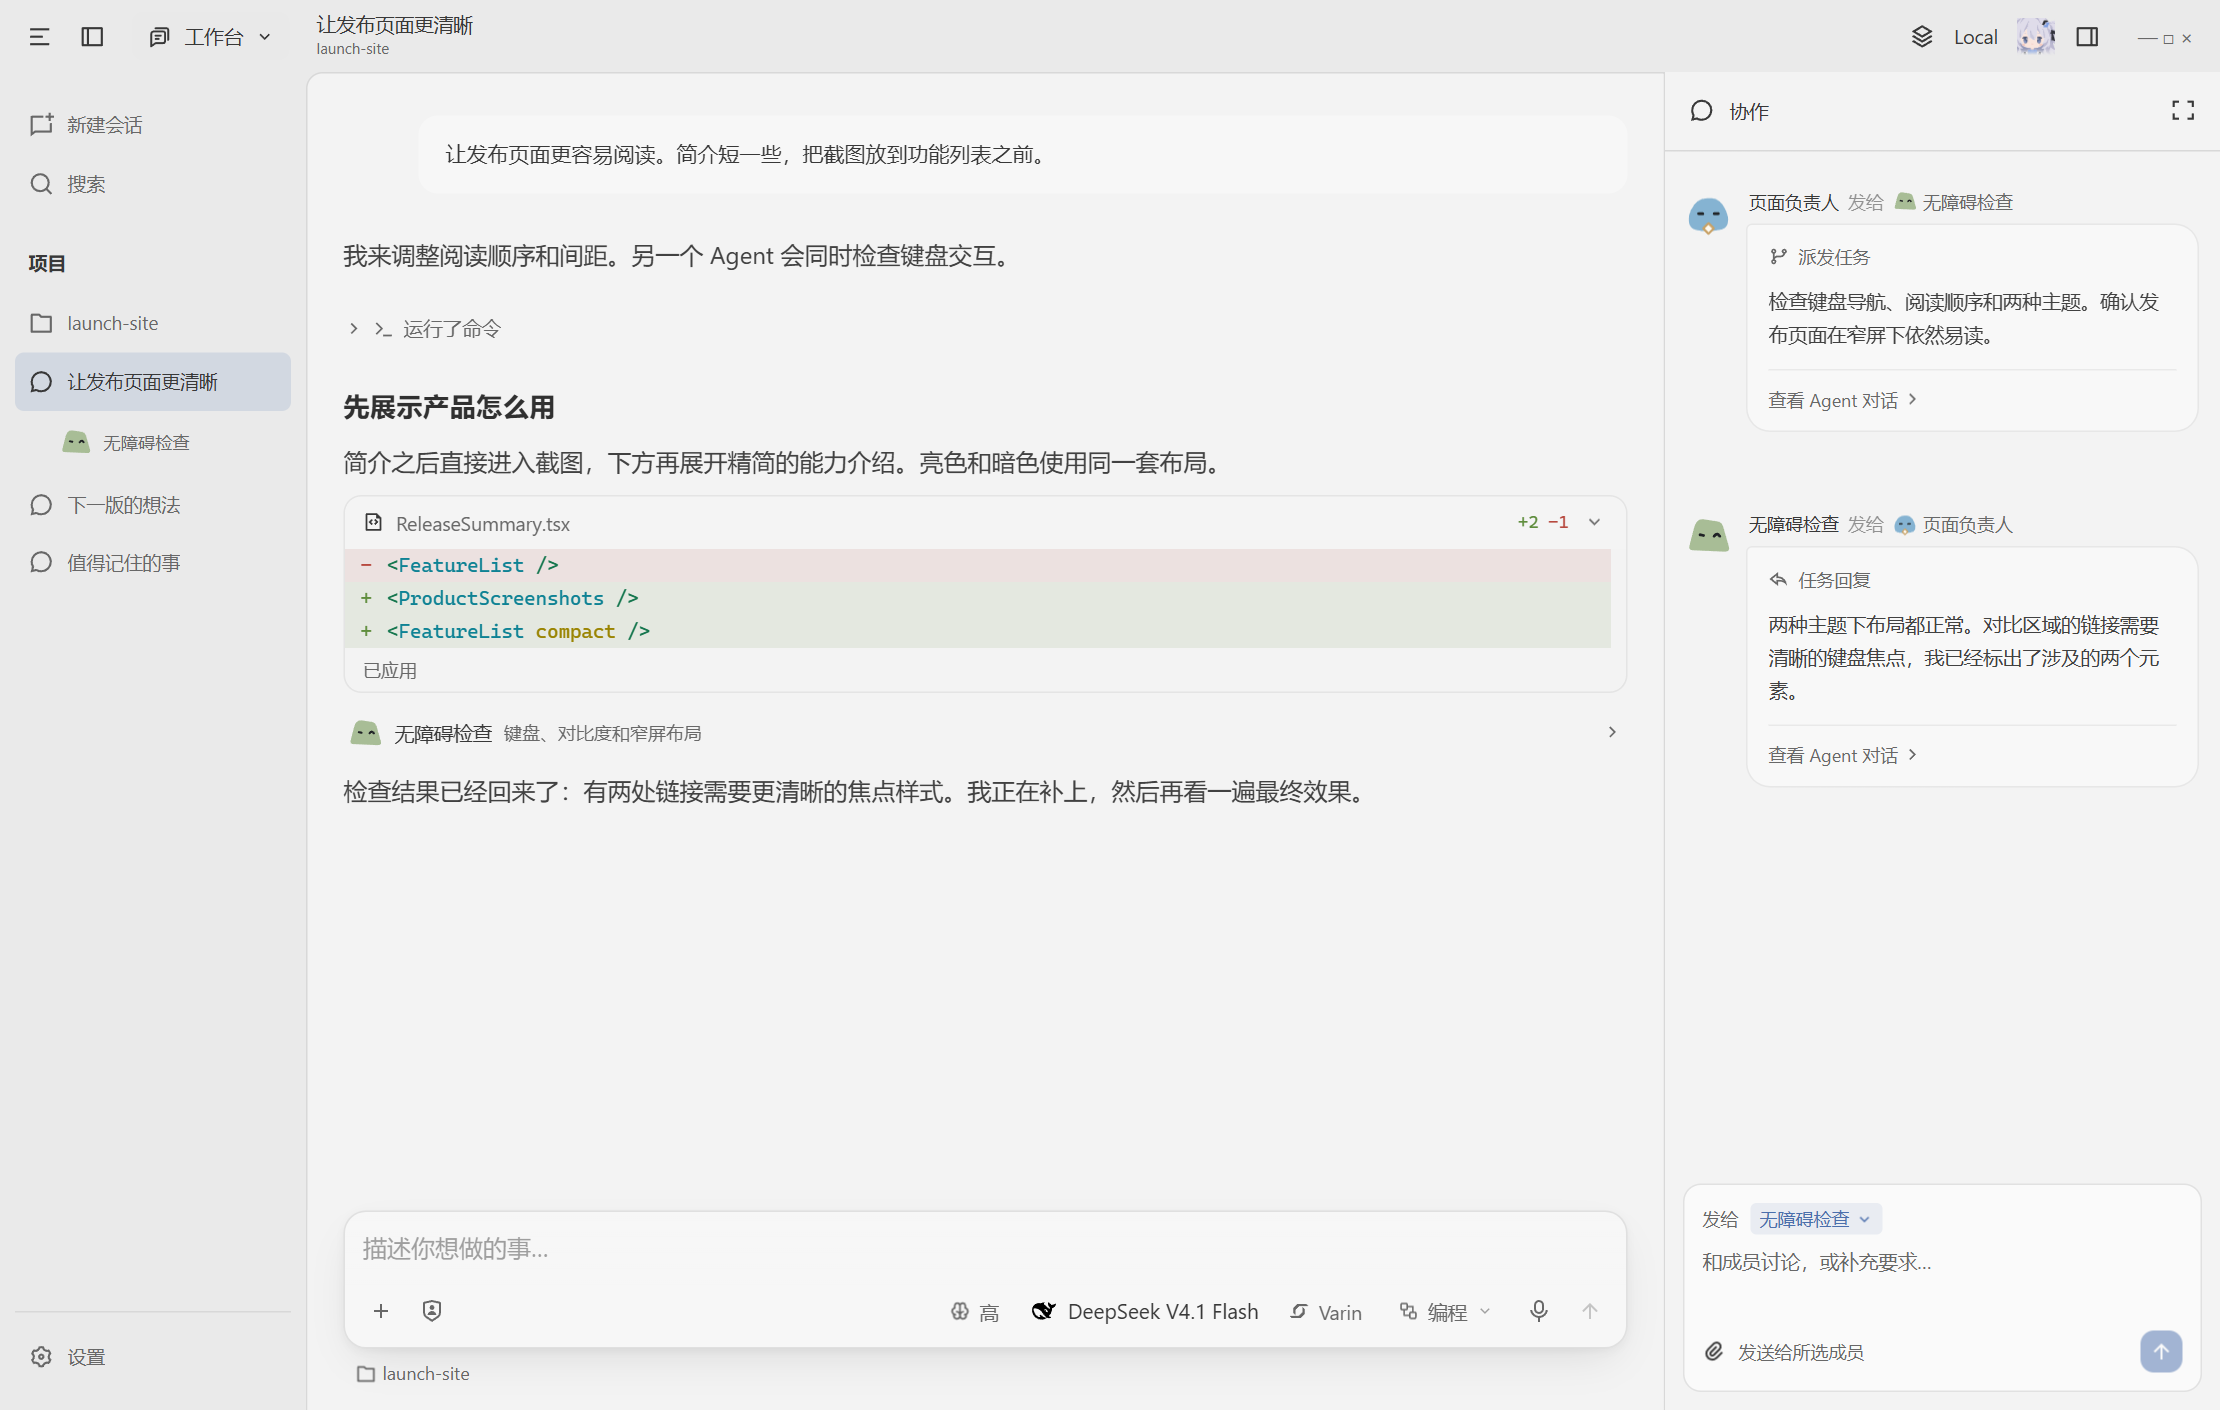
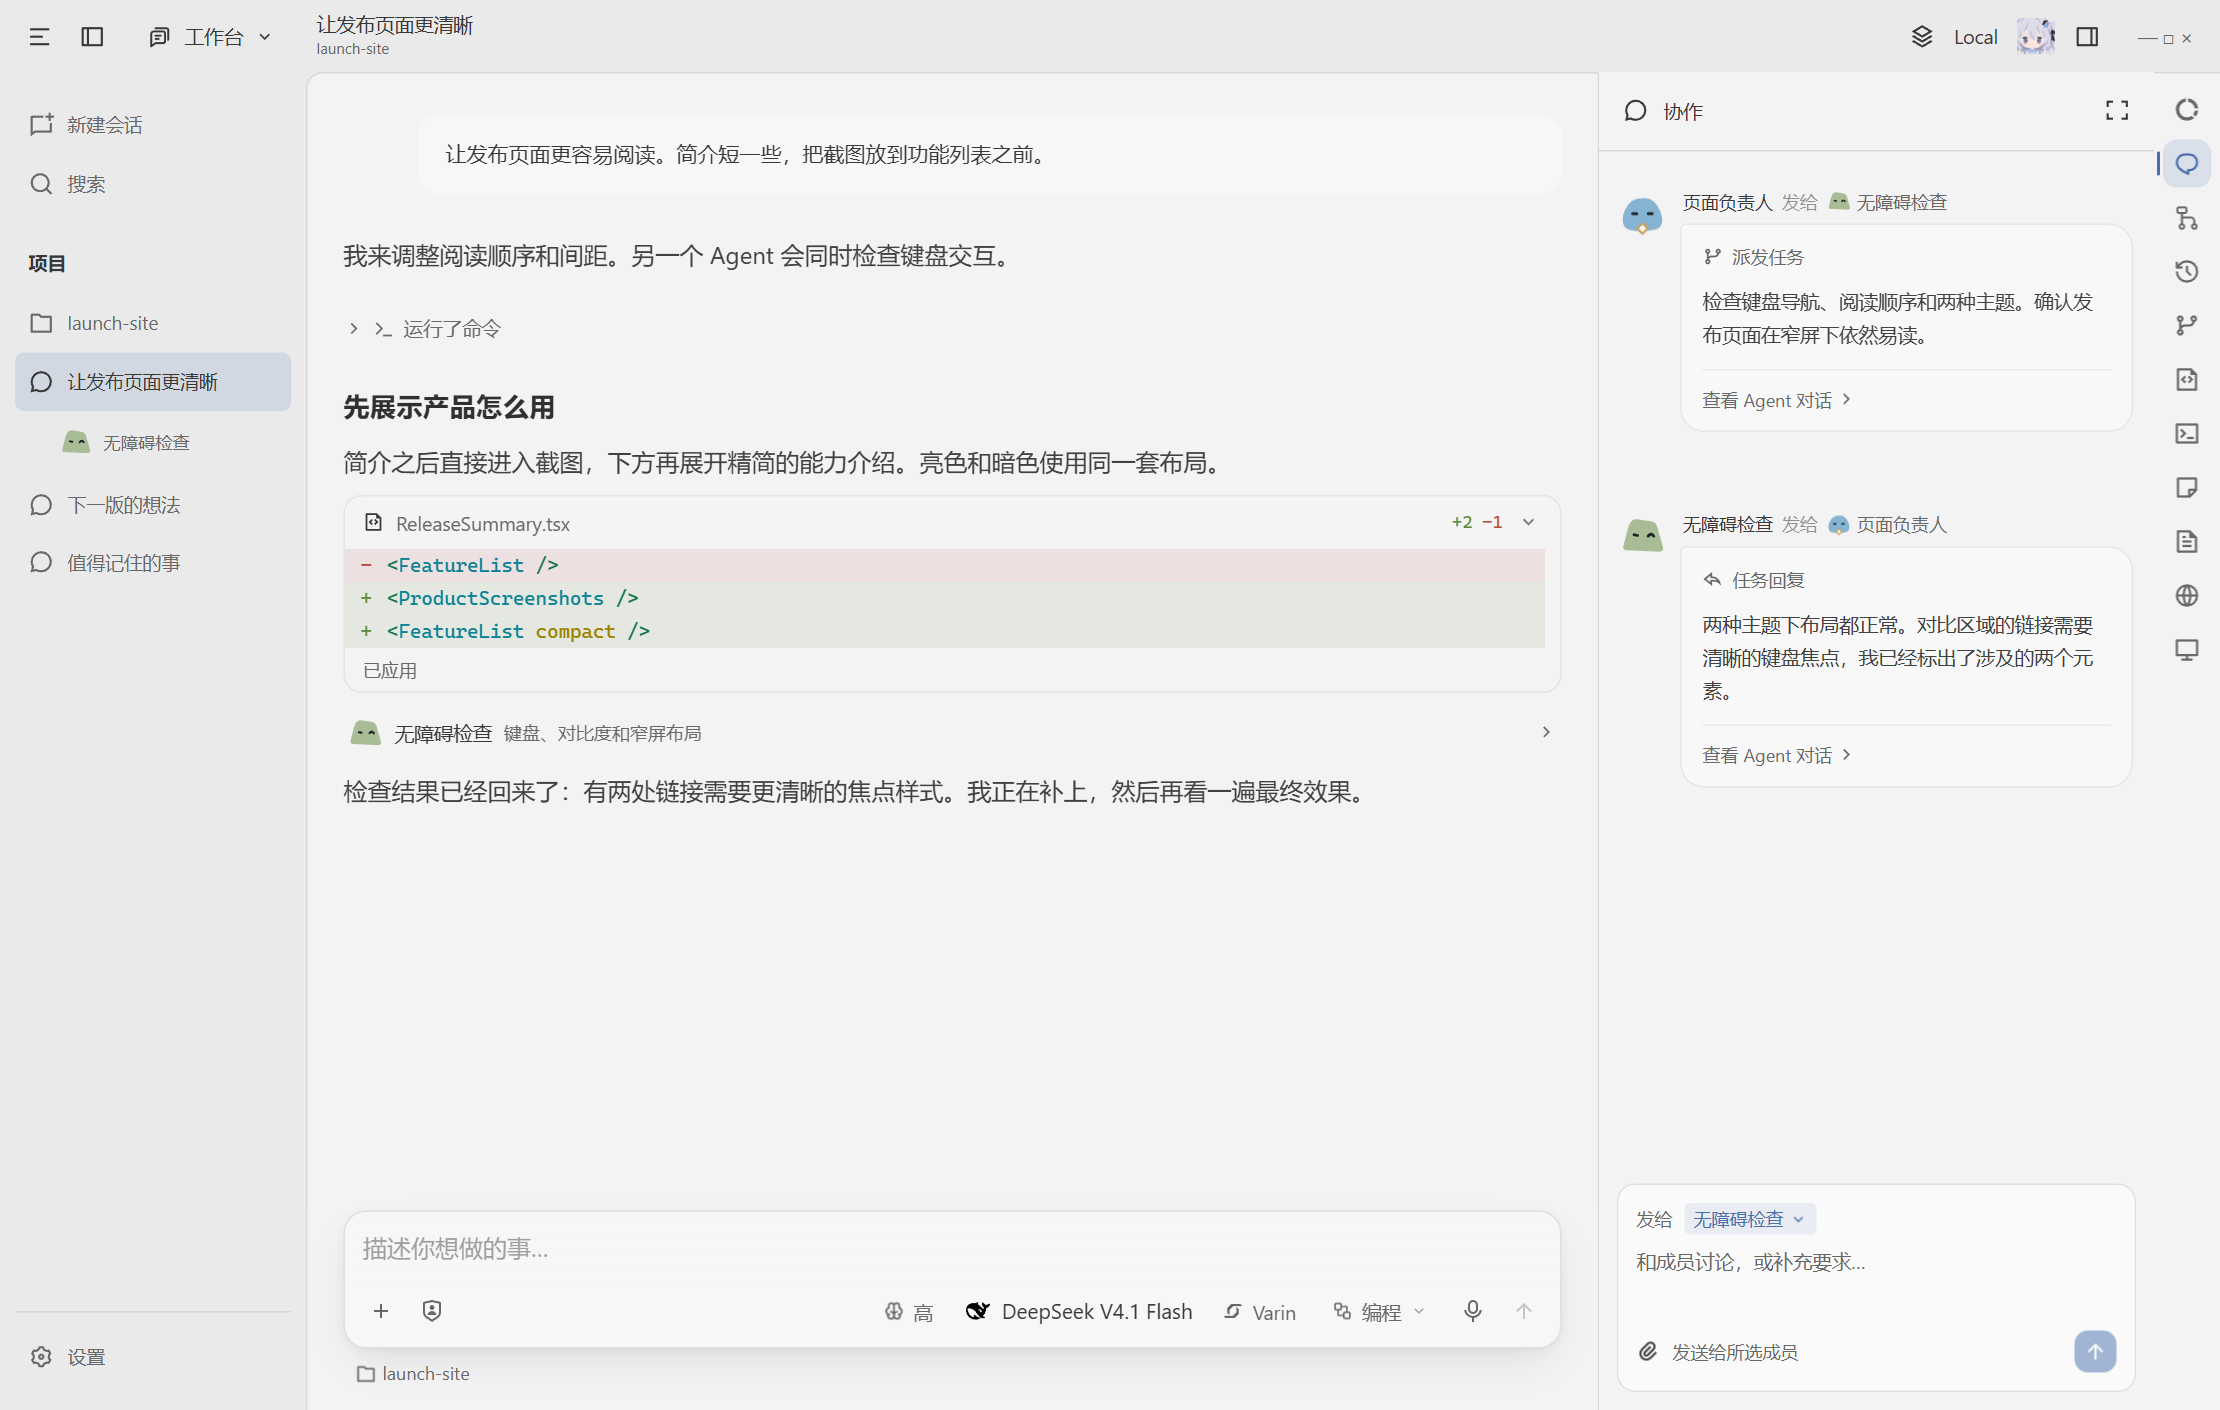
docs: include the context rail in workbench screenshots

diff --git a/scripts/readme/scenes.tsx b/scripts/readme/scenes.tsx
@@ -31,6 +31,9 @@ import { ChatDelegation } from '@/components/conversation/ChatDelegation';
 import { ChatFileChangePreview } from '@/components/conversation/ChatFileChangePreview';
 import { CollaborationMessage } from '@/components/thread/CollaborationMessage';
 import { CollaborationComposer } from '@/components/thread/CollaborationComposer';
+import { ContextPanelRail } from '@/components/layout/ContextPanelRail';
+import { normalizeContextPanelDirectoryKey, useUIStore } from '@/stores/useUIStore';
+import { useDirectoryStore } from '@/stores/useDirectoryStore';
 import type { CollaborationFeedItem, CollaborationMember } from '@/components/thread/collaborationFeed';
 import workbenchImageEn from '../../.github/readme/assets/workbench-en.png?url';
 import workbenchImageZh from '../../.github/readme/assets/workbench-zh-CN.png?url';
@@ -48,6 +51,11 @@ const style = document.createElement('style');
 style.textContent = `:root { ${new CSSVariableGenerator().generate(theme as Theme)} }`;
 document.head.appendChild(style);
 await useI18nStore.getState().setLocale(zh ? 'zh-CN' : 'en');
+if (scene === 'workbench') {
+  const directoryKey = normalizeContextPanelDirectoryKey(useDirectoryStore.getState().currentDirectory);
+  const ui = useUIStore.getState(), panel = ui.contextPanelByDirectory[directoryKey];
+  if (!panel?.isOpen || panel.tabs.find(tab => tab.id === panel.activeTabId)?.mode !== 'threads') ui.openContextSurface(directoryKey, 'threads');
+}
 
 const taskNames = [text('Launch page', '发布页面'), text('Customer feedback', '用户反馈整理'), text('Release notes', '版本说明')];
 const noop = () => {};
@@ -210,6 +218,6 @@ function Editor() { const host = React.useRef<HTMLDivElement>(null); React.useEf
     document.body.dataset.editorReady = 'true';
   }); return () => { cancelled = true; editor?.dispose(); }; }, []); return <div className="editor-area"><div className="editor-tabs"><span><I name="file-code" />ReleaseSummary.tsx ×</span><span>release.css</span></div><div ref={host} className="monaco-host" /><div className="terminal"><div>{text('Terminal', '终端')} <span>{text('Problems', '问题')} 0</span></div><pre>$ bun run build<br /><span className="green">✓</span> {text('Build completed', '构建完成')}<br />$ <span className="cursor">▌</span></pre></div></div>; }
 function IdeChat() { return <div className="ide-chat"><div className="panel-heading"><I name="chat-3" />{text('Conversation', '对话')}</div><User>{text('The order looks good. Keep the focus styles consistent with the rest of the site.', '顺序看着不错，焦点样式也和站点其他部分保持一致。')}</User><M>{text('I’ll reuse the existing focus treatment. The content order stays as we agreed.', '我会复用已有的焦点样式，内容顺序保持刚才商量的版本。')}</M><Activity kind="code" /><M>{text('The changes are in `ReleaseSummary.tsx` and `release.css`. You can edit the files here while we keep discussing the page.', '改动在 `ReleaseSummary.tsx` 和 `release.css`。你可以直接在这里编辑，我们继续讨论页面。')}</M><Files /><Composer bot={false} /></div>; }
-export function App() { return <I18nProvider><div className={`readme-app ${scene}`}><Header /><div className="frame-body">{!botScene && <Sidebar />}{scene === 'varin' ? <><VarinConversation /><aside className="bot-area"><BotWorkspaceNavigationContext.Provider value={navigation}><BotPanelBody model={model} /></BotWorkspaceNavigationContext.Provider></aside></> : scene === 'workbench' ? <><WorkbenchConversation /><Collaboration /></> : scene === 'ide' ? <><Editor /><IdeChat /></> : scene === 'conversation-choices' ? <ChoiceConversation /> : scene === 'conversation-reading' ? <ReadingConversation /> : <RichConversation />}</div></div></I18nProvider>; }
+export function App() { return <I18nProvider><div className={`readme-app ${scene}`}><Header /><div className="frame-body">{!botScene && <Sidebar />}{scene === 'varin' ? <><VarinConversation /><aside className="bot-area"><BotWorkspaceNavigationContext.Provider value={navigation}><BotPanelBody model={model} /></BotWorkspaceNavigationContext.Provider></aside></> : scene === 'workbench' ? <><WorkbenchConversation /><Collaboration /><ContextPanelRail /></> : scene === 'ide' ? <><Editor /><IdeChat /></> : scene === 'conversation-choices' ? <ChoiceConversation /> : scene === 'conversation-reading' ? <ReadingConversation /> : <RichConversation />}</div></div></I18nProvider>; }
 createRoot(document.getElementById('root')!).render(<ThemeSystemContext.Provider value={themeContext}><TooltipProvider><App /></TooltipProvider></ThemeSystemContext.Provider>);
 document.body.dataset.readmeReady = 'true';
